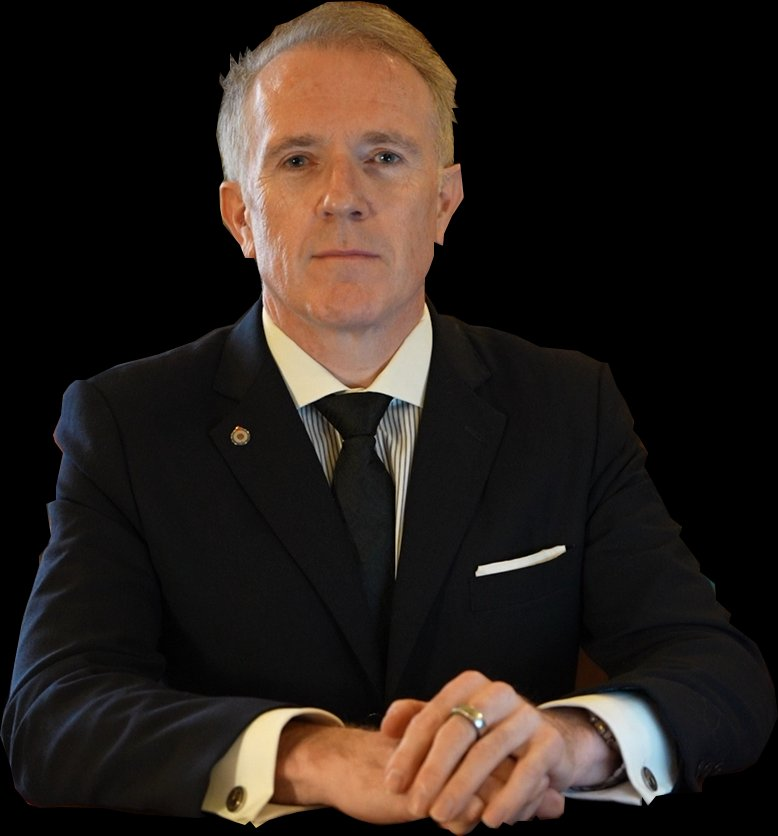
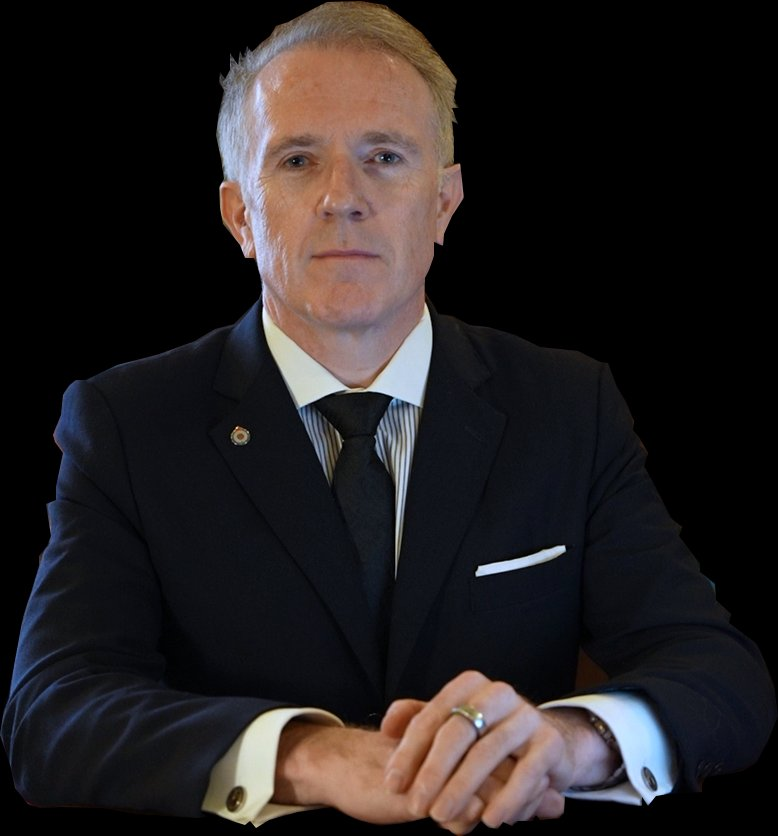
Add David intro video

diff --git a/src/App.jsx b/src/App.jsx
@@ -66,8 +66,8 @@ const CATS = [
     q: "How many bonus points would convince you to switch your main supermarket or food rewards program?",
     range: [0, 50000], step: 500,
     schemes: [
-      { id: "flybuys",   name: "Flybuys (Coles)",          abbr: "FB",   bg: "#CC1F1F", icon: "🛒" },
-      { id: "edr",       name: "Everyday Rewards",         abbr: "EDR",  bg: "#166534", icon: "🛒" },
+      { id: "flybuys",   name: "Flybuys (Coles)",          abbr: "FB",   bg: "#003087", icon: "🛒" },
+      { id: "edr",       name: "Everyday Rewards",         abbr: "EDR",  bg: "#E55A00", icon: "🛒" },
       { id: "mydans",    name: "My Dan's",                 abbr: "DM",   bg: "#C8900A", icon: "🍾" },
       { id: "mymaccas",  name: "MyMacca's Rewards",        abbr: "MCD",  bg: "#DA291C", icon: "🍟" },
       { id: "subway",    name: "Subway MyWay",             abbr: "SUB",  bg: "#007337", icon: "🥖" },
@@ -218,7 +218,7 @@ function SchemeTile({ s, on, toggle }) {
       borderRadius: 12, padding: "7px 4px", cursor: "pointer",
       transition: "all 0.15s ease", display: "flex", flexDirection: "column",
       alignItems: "center", justifyContent: "center", gap: 3,
-      boxShadow: on ? `0 4px 12px ${s.bg}55` : "none",
+      boxShadow: on ? `0 4px 12px ${s.bg}55` : `0 2px 8px ${s.bg}30`,
       transform: on ? "scale(1.04)" : "scale(1)",
     }}>
       {on && (
@@ -479,7 +479,7 @@ function AuthorPage() {
                 style={{
                   width: 220, height: "auto",
                   display: "block",
-                  filter: "drop-shadow(-8px 8px 24px rgba(0,0,0,0.6))",
+                  mixBlendMode: "lighten",
                 }}
               />
               <img
@@ -492,7 +492,6 @@ function AuthorPage() {
                   display: "block",
                 }}
               />
-            </div>
           </div>
         </div>
       </div>
@@ -525,12 +524,21 @@ function AuthorPage() {
           {/* Video embed */}
           <div style={{ position: "relative", borderRadius: 16, overflow: "hidden", boxShadow: "0 20px 60px rgba(0,0,0,0.2)", background: "#000" }}>
             <video
+              ref={el => {
+                if (!el) return;
+                const obs = new IntersectionObserver(
+                  ([entry]) => { if (entry.isIntersecting) { el.play(); } else { el.pause(); } },
+                  { threshold: 0.5 }
+                );
+                obs.observe(el);
+              }}
+              poster="/david-intro-poster.jpg"
               controls
-              poster="/david-moloney.png"
+              muted
+              playsInline
               style={{ width: "100%", display: "block", maxHeight: 500 }}
             >
               <source src="/david-intro.mp4" type="video/mp4" />
-              Your browser does not support the video tag.
             </video>
           </div>
 
@@ -552,13 +560,20 @@ function AuthorPage() {
               overflow: "hidden",
               boxShadow: "0 16px 48px rgba(0,0,0,0.3)",
               position: "relative",
+              display: "flex", alignItems: "flex-end", justifyContent: "center",
             }}>
               <TailFin width={200} color={red} opacity={0.9}
                 style={{ position: "absolute", bottom: -20, right: -20 }} />
               <img
                 src="/david-moloney.png"
                 alt="David Moloney"
-                style={{ width: "100%", height: "100%", objectFit: "contain", objectPosition: "bottom center", display: "block", position: "relative", zIndex: 1 }}
+                style={{
+                  width: "100%", height: "100%",
+                  objectFit: "cover", objectPosition: "center top",
+                  display: "block",
+                  position: "relative", zIndex: 1,
+                  mixBlendMode: "lighten",
+                }}
               />
             </div>
             {/* Book cover small */}
